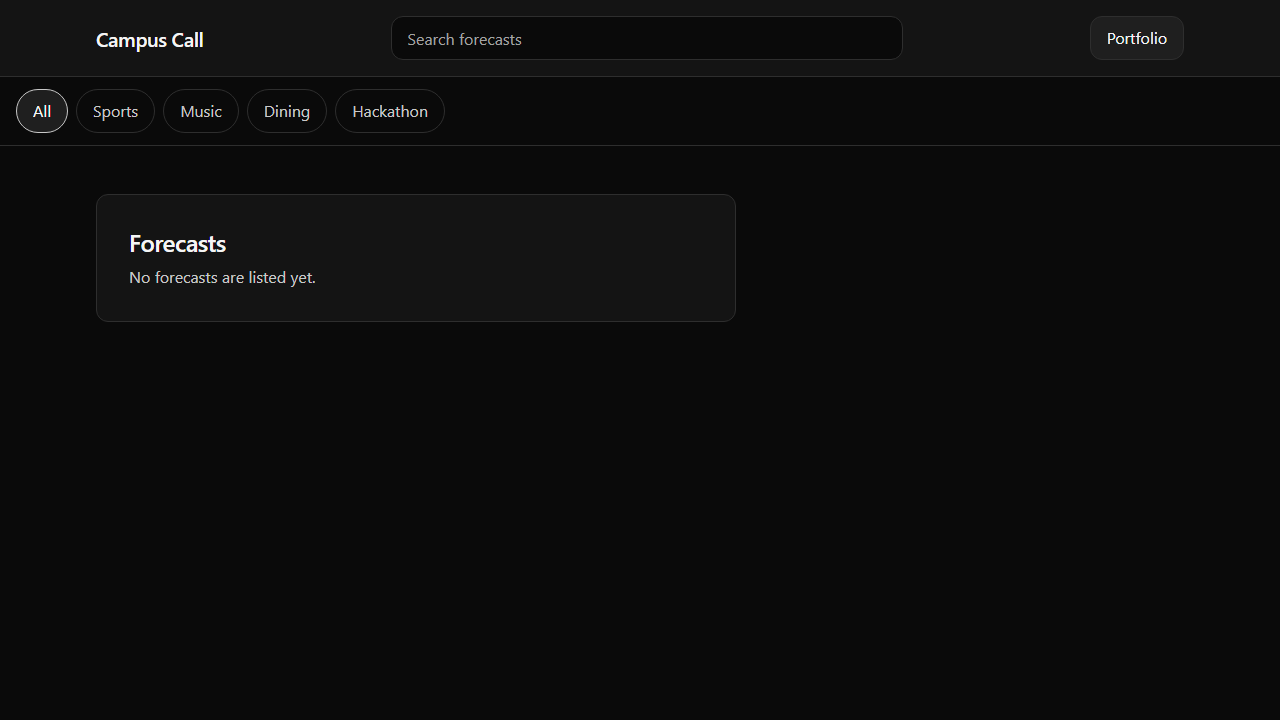
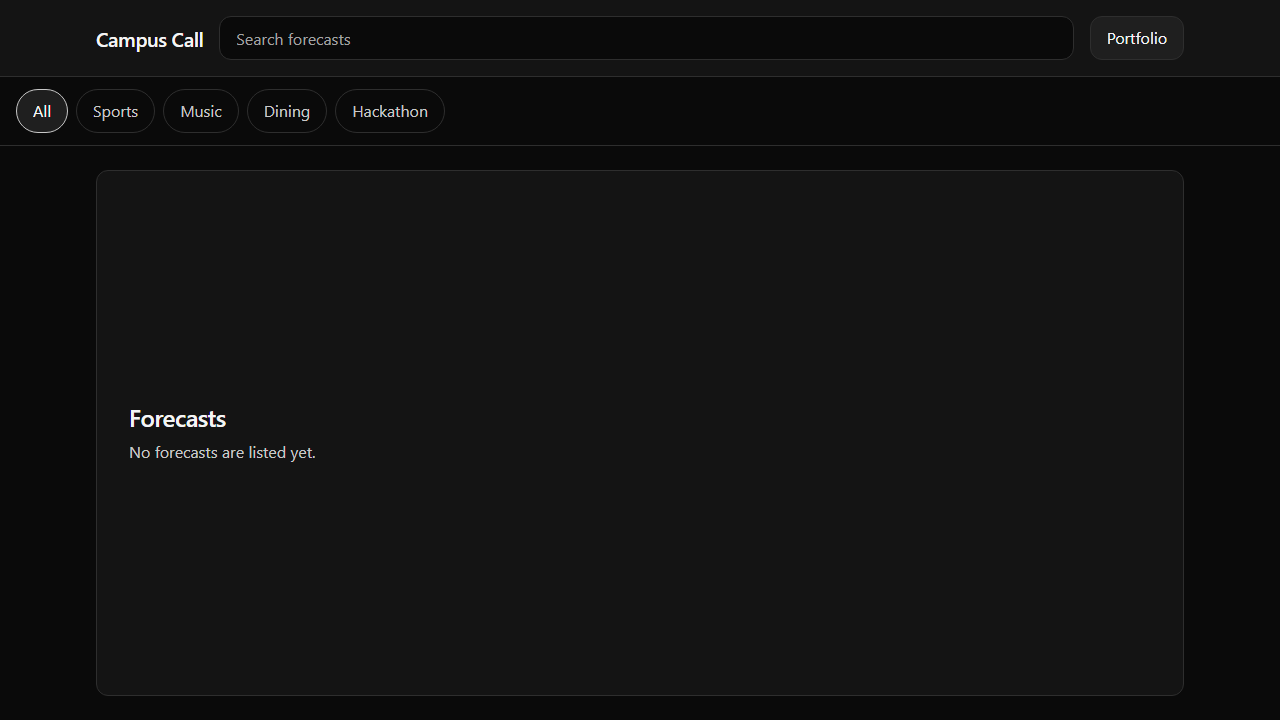
Realign the home shell after Mode C round 0

diff --git a/src/app/globals.css b/src/app/globals.css
@@ -78,8 +78,8 @@ input {
   box-sizing: border-box;
   width: min(100%, var(--page-max));
   margin-inline: auto;
-  padding-left: max(var(--space-4), env(safe-area-inset-left));
-  padding-right: max(var(--space-4), env(safe-area-inset-right));
+  padding-inline-start: max(var(--space-4), env(safe-area-inset-left));
+  padding-inline-end: max(var(--space-4), env(safe-area-inset-right));
 }
 
 .topbar-inner {
@@ -110,9 +110,9 @@ input {
 
 .search-input {
   display: block;
-  width: min(100%, 32rem);
+  width: 100%;
   height: var(--control-height);
-  margin-inline: auto;
+  margin-inline: 0;
   padding-inline: var(--space-4);
   border: 1px solid var(--border);
   border-radius: var(--radius-md);
@@ -174,11 +174,18 @@ input {
 
 .main {
   flex: 1;
-  padding-block: var(--space-7);
+  display: flex;
+  flex-direction: column;
+  padding-block: var(--space-5);
 }
 
 .empty {
-  max-width: 40rem;
+  flex: 1;
+  width: 100%;
+  display: flex;
+  flex-direction: column;
+  justify-content: center;
+  min-height: 18rem;
   padding: var(--space-6);
   border: 1px solid var(--border);
   border-radius: var(--radius-md);

diff --git a/PROGRESS.md b/PROGRESS.md
@@ -104,6 +104,10 @@ Nico removed the chat-server tie-break. The participant guide is the schedule so
 
 A later agent looked for the session notes in `~/.claude/second-brain.md` and did not find them. The team brain is `C:/lec-brain`. This folder resumes as `vibe-coding-hackathon`. `AGENTS.md` now says that. The product spec was already on `main`. Docs only. Tests were not re-run. Nothing was posted or sent.
 
+## 2026-11-14 CC-001 Mode C round 0 fail
+
+The pixel score was 9.43. The category row and the empty card did not share one column, and the lower screen was bare black. The shell now uses one inset, the search fills the header, and the empty region fills the column. Tests passed, 35 of 35. New captures are in `.agent/research/ui-pixel/home/`. Round 1 is next. The EP is not accepted.
+
 ## 2026-11-14 CC-001 Mode B pass
 
 UI code scored 9.8. With correctness 10.0, security 10.0, and cut completeness 9.8, the weighted score is 9.9. No blocking or major findings. Two minors stay. The EP is not accepted until Mode C passes. Product commit remains `41cb9d9`.

diff --git a/docs/overnight/STATE.md b/docs/overnight/STATE.md
@@ -4,7 +4,7 @@ Chat history is not memory. The next agent reads this file, `LEAD-PROMPT.md`, an
 
 ## Now
 
-- Stage: CC-001 Mode B PASS. Weighted 9.9. Mode C captures are in `.agent/research/ui-pixel/home/`. The pixel grader is next. Do not start CC-002. Do not mark a TASKS parent complete. A second writer must not start.
+- Stage: CC-001 Mode C round 0 FAIL, weighted 9.43, one major. The shell was realigned and recaptured. Round 1 is scoring those captures. Do not start CC-002. Do not mark a TASKS parent complete. A second writer must not start.
 - Log: `logs/CC-001.md`. Mode B passed. Mode C is open.
 - Scored plan commit: `9c83c89`. Implementation base: `6938f48`.
 - Saves: commit every green stage. The local brain handoff for the Mode A gate is still due. Do not push the repo or the brain. If the brain write stops, continue from this file.

diff --git a/logs/CC-001.md b/logs/CC-001.md
@@ -17,7 +17,7 @@ Mode B gate path and final weighted score
 `.agent/research/cc-001-build-autoresearch/GATE-RESULT.md`. PASS. Weighted 9.9. Correctness 10.0, security 10.0, cut completeness 9.8, UI code 9.8. Blocking 0. Major 0. Two minors left in place.
 
 Mode C gate path, or not applicable
-Not run. The home screen changed, so Mode C is required after Mode B. Expected root: `.agent/research/ui-pixel/` for the home surface. No captures in this step.
+`.agent/research/ui-pixel/home/`. Round 0 failed at weighted 9.43 with one major finding. The shell was realigned and recaptured. Round 1 is open.
 
 External facts and live/demo limitations
 Local shell only. Search, categories, and Portfolio do not navigate or filter. No example forecasts, no event page, no credits balance, no deploy, no push, no hosted migration.

diff --git a/.agent/research/ui-pixel/home/round-0.md b/.agent/research/ui-pixel/home/round-0.md
@@ -1,0 +1,11 @@
+# Round 0 — home shell pixels
+
+DIMENSIONS: spatial rhythm 8.8, hierarchy 9.6, typography 9.6, color 9.7, interaction 9.5, responsiveness 9.6, consistency 9.5
+WEIGHTED: 9.43
+BLOCKING: 0
+MAJOR: 1
+MINOR: 1
+GATE: FAIL
+
+- Major, desktop-1280x720.png: the category row starts left of the wordmark and the Forecasts card, and that card is about half the header width, leaving a black field beside it and below it.
+- Minor, mobile-390x844.png: the column lines up, but the lower half of the screen is an unused black field.
